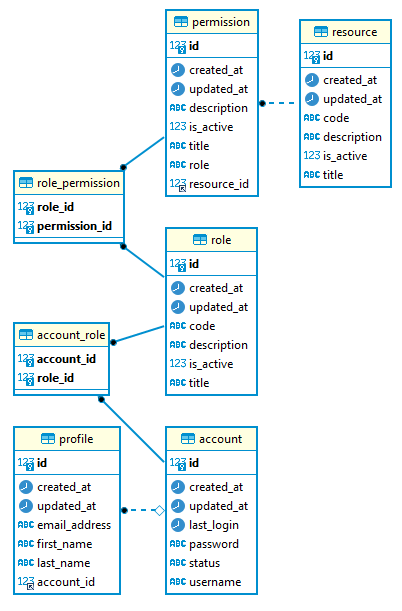
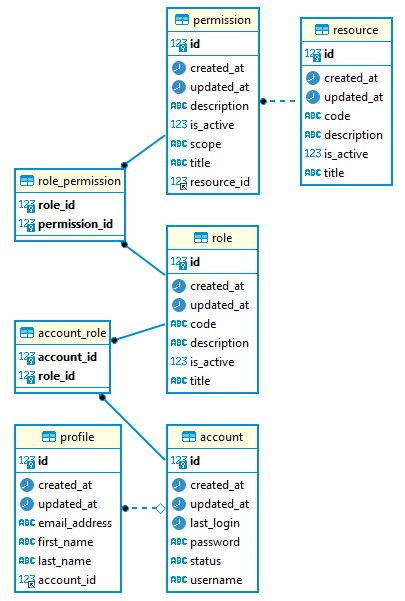
apply role-permission relation

diff --git a/account-service/src/main/java/com/example/service/impl/RoleServiceImpl.java b/account-service/src/main/java/com/example/service/impl/RoleServiceImpl.java
@@ -1,14 +1,16 @@
 package com.example.service.impl;
 
 import com.example.dto.RoleDTO;
-import com.example.entity.RoleEntity;
+import com.example.entity.PermissionEntity;
 import com.example.entity.RoleEntity;
 import com.example.exception.BaseResponseException;
+import com.example.repository.PermissionRepository;
 import com.example.repository.RoleRepository;
 import com.example.service.RoleService;
 import lombok.AccessLevel;
 import lombok.RequiredArgsConstructor;
 import lombok.experimental.FieldDefaults;
+import org.apache.commons.collections4.CollectionUtils;
 import org.modelmapper.ModelMapper;
 import org.springframework.http.HttpStatus;
 import org.springframework.stereotype.Service;
@@ -20,10 +22,10 @@ import javax.persistence.criteria.CriteriaQuery;
 import javax.persistence.criteria.Predicate;
 import javax.persistence.criteria.Root;
 import javax.transaction.Transactional;
-import java.time.LocalDateTime;
 import java.util.ArrayList;
 import java.util.List;
 import java.util.Objects;
+import java.util.Set;
 
 @Service
 @FieldDefaults(level = AccessLevel.PRIVATE, makeFinal = true)
@@ -31,8 +33,10 @@ import java.util.Objects;
 public class RoleServiceImpl implements RoleService {
     @PersistenceContext
     EntityManager entityManager;
-    RoleRepository roleRepository;
     ModelMapper modelMapper;
+
+    RoleRepository roleRepository;
+    PermissionRepository permissionRepository;
 
     @Override
     public List<RoleDTO> getAll() {
@@ -88,7 +92,6 @@ public class RoleServiceImpl implements RoleService {
             }
             roleEntity = modelMapper.map(role, RoleEntity.class);
             roleEntity.setActive(Boolean.TRUE);
-            roleEntity.setCreatedAt(LocalDateTime.now());
         } else {
             roleEntity = roleRepository.getActive(id, code);
             if (Objects.isNull(roleEntity)) {
@@ -96,7 +99,6 @@ public class RoleServiceImpl implements RoleService {
             }
             roleEntity.setTitle(role.getTitle());
             roleEntity.setDescription(role.getDescription());
-            roleEntity.setUpdatedAt(LocalDateTime.now());
         }
         roleRepository.saveAndFlush(roleEntity);
 
@@ -110,5 +112,32 @@ public class RoleServiceImpl implements RoleService {
         if (id > 0) {
             roleRepository.deleteById(id);
         }
+    }
+
+    @Transactional
+    @Override
+    public void savePermission(long roleId, long permissionId) {
+        RoleEntity roleEntity = roleRepository.findById(roleId)
+                .orElseThrow(() -> new BaseResponseException(HttpStatus.NOT_FOUND));
+        PermissionEntity permissionEntity = permissionRepository.findById(permissionId)
+                .orElseThrow(() -> new BaseResponseException(HttpStatus.NOT_FOUND));
+        boolean result = roleEntity.addPermission(permissionEntity);
+        if (!result) throw new BaseResponseException(HttpStatus.BAD_REQUEST);
+
+        roleRepository.save(roleEntity);
+    }
+
+    @Transactional
+    @Override
+    public void deletePermission(long roleId, long permissionId) {
+        RoleEntity roleEntity = roleRepository.findById(roleId)
+                .orElseThrow(() -> new BaseResponseException(HttpStatus.NOT_FOUND));
+        Set<PermissionEntity> permissions = roleEntity.getPermissions();
+        if (CollectionUtils.isEmpty(permissions)) return;
+        PermissionEntity permissionEntity = permissionRepository.findById(permissionId)
+                .orElseThrow(() -> new BaseResponseException(HttpStatus.NOT_FOUND));
+        permissions.remove(permissionEntity);
+        roleRepository.save(roleEntity);
+        // doesn't need this: permissionEntity.getRoles().remove(roleEntity);
     }
 }

diff --git a/account-service/src/main/java/com/example/service/impl/ResourceServiceImpl.java b/account-service/src/main/java/com/example/service/impl/ResourceServiceImpl.java
@@ -26,7 +26,6 @@ import javax.persistence.criteria.CriteriaQuery;
 import javax.persistence.criteria.Predicate;
 import javax.persistence.criteria.Root;
 import javax.transaction.Transactional;
-import java.time.LocalDateTime;
 import java.util.ArrayList;
 import java.util.List;
 import java.util.Objects;
@@ -123,7 +122,6 @@ public class ResourceServiceImpl implements ResourceService {
             }
             resourceEntity = modelMapper.map(resource, ResourceEntity.class);
             resourceEntity.setActive(Boolean.TRUE);
-            // resourceEntity.setCreatedAt(LocalDateTime.now());
         } else {
             resourceEntity = resourceRepository.getActive(id, code);
             if (Objects.isNull(resourceEntity)) {
@@ -131,7 +129,6 @@ public class ResourceServiceImpl implements ResourceService {
             }
             resourceEntity.setTitle(resource.getTitle());
             resourceEntity.setDescription(resource.getDescription());
-            resourceEntity.setUpdatedAt(LocalDateTime.now());
         }
         resourceRepository.saveAndFlush(resourceEntity);
 
@@ -153,26 +150,19 @@ public class ResourceServiceImpl implements ResourceService {
         ResourceEntity resource = resourceRepository.findById(resourceId)
                 .orElseThrow(() -> new BaseResponseException(HttpStatus.NOT_FOUND));
         PermissionEntity permissionEntity = modelMapper.map(permission, PermissionEntity.class);
-        permissionEntity.setCreatedAt(LocalDateTime.now());
         boolean result = resource.addPermission(permissionEntity);
-        if (!result && CollectionUtils.isNotEmpty(resource.getPermissions())) {
-            // permission already saves
-            throw new BaseResponseException(HttpStatus.CONFLICT);
-        }
+        if (!result) throw new BaseResponseException(HttpStatus.CONFLICT); // permission already saves
         resourceRepository.save(resource);
     }
 
     @Transactional
     @Override
     public void deletePermission(long resourceId, long permissionId) {
-        PermissionEntity permission = permissionRepository.findById(permissionId).orElseThrow(() -> new BaseResponseException(HttpStatus.NOT_FOUND));
+        PermissionEntity permission = permissionRepository.findById(permissionId)
+                .orElseThrow(() -> new BaseResponseException(HttpStatus.NOT_FOUND));
         ResourceEntity resource = permission.getResource();
-        if (Objects.isNull(resource)) {
-            throw new BaseResponseException(HttpStatus.NOT_FOUND);
-        }
-        if (resourceId != resource.getId()) {
-            throw new BaseResponseException(HttpStatus.BAD_REQUEST);
-        }
+        if (Objects.isNull(resource)) throw new BaseResponseException(HttpStatus.NOT_FOUND);
+        if (resourceId != resource.getId()) throw new BaseResponseException(HttpStatus.BAD_REQUEST);
         permissionRepository.delete(permission);
     }
 }

diff --git a/account-service/src/main/java/com/example/entity/RoleEntity.java b/account-service/src/main/java/com/example/entity/RoleEntity.java
@@ -7,9 +7,11 @@ import lombok.Setter;
 import lombok.experimental.FieldDefaults;
 
 import javax.persistence.*;
+import java.util.HashSet;
+import java.util.Objects;
 import java.util.Set;
 
-@EqualsAndHashCode(callSuper = true)
+@EqualsAndHashCode(callSuper = true, onlyExplicitlyIncluded = true)
 @Getter
 @Setter
 @FieldDefaults(level = AccessLevel.PRIVATE)
@@ -18,21 +20,24 @@ import java.util.Set;
 public class RoleEntity extends BaseEntity {
     private static final long serialVersionUID = 1L;
 
-    String title; // eg: Admin
+    String title; // eg: Administrator
     @Column(updatable = false)
+
+    @EqualsAndHashCode.Include
     String code; // eg: ROLE_ADMIN
+
     String description; // eg: Has full access to entire resources
 
     @Column(name = "is_active")
     boolean isActive;
 
-    @EqualsAndHashCode.Exclude
     @ManyToMany(mappedBy = "roles")
     @OrderBy("id  ASC")
     Set<AccountEntity> accounts;
 
-    @EqualsAndHashCode.Exclude
-    @ManyToMany
+    @ManyToMany(fetch = FetchType.LAZY, targetEntity = PermissionEntity.class,
+            cascade = { CascadeType.DETACH, CascadeType.MERGE,
+                    CascadeType.REFRESH, CascadeType.PERSIST })
     @JoinTable(
         name = "role_permission",
         joinColumns = @JoinColumn(name = "role_id", nullable = false), foreignKey = @ForeignKey(name = "fk_role_permission"),
@@ -40,4 +45,10 @@ public class RoleEntity extends BaseEntity {
     )
     @OrderBy("id, title ASC")
     Set<PermissionEntity> permissions;
+
+    public boolean addPermission(PermissionEntity permission) {
+        if (Objects.isNull(this.permissions)) this.permissions = new HashSet<>();
+        return this.permissions.add(permission);
+                // doesn't need this: && permission.addRole(this);
+    }
 }

diff --git a/account-service/src/main/java/com/example/entity/PermissionEntity.java b/account-service/src/main/java/com/example/entity/PermissionEntity.java
@@ -9,6 +9,8 @@ import lombok.Setter;
 import lombok.experimental.FieldDefaults;
 
 import javax.persistence.*;
+import java.util.HashSet;
+import java.util.Objects;
 import java.util.Set;
 
 @Getter
@@ -30,11 +32,23 @@ public class PermissionEntity extends BaseEntity {
     @Convert(converter = ScopeConverter.class) // name property rather than enum name
     ScopePermission scope;
 
-    @ManyToMany(fetch = FetchType.LAZY, mappedBy = "permissions")
+    @ManyToMany(fetch = FetchType.LAZY, targetEntity = RoleEntity.class,
+        cascade = { CascadeType.DETACH, CascadeType.MERGE,
+                CascadeType.REFRESH, CascadeType.PERSIST })
+    @JoinTable(
+            name = "role_permission",
+            inverseJoinColumns = @JoinColumn(name = "role_id", nullable = false), foreignKey = @ForeignKey(name = "fk_role_permission"),
+            joinColumns = @JoinColumn(name = "permission_id", nullable = false, foreignKey = @ForeignKey(name = "fk_permission_role"))
+    )
     @OrderBy("id, title ASC")
     Set<RoleEntity> roles;
 
     @ManyToOne
     @JoinColumn(name = "resource_id", foreignKey = @ForeignKey(name = "fk_permission_resource"), nullable = false)
     ResourceEntity resource;
+
+    public boolean addRole(RoleEntity role) {
+        if (Objects.isNull(this.roles)) this.roles = new HashSet<>();
+        return this.roles.add(role);
+    }
 }

diff --git a/account-service/src/main/java/com/example/service/impl/AccountServiceImpl.java b/account-service/src/main/java/com/example/service/impl/AccountServiceImpl.java
@@ -21,7 +21,6 @@ import javax.persistence.criteria.CriteriaQuery;
 import javax.persistence.criteria.Predicate;
 import javax.persistence.criteria.Root;
 import javax.transaction.Transactional;
-import java.time.LocalDateTime;
 import java.util.ArrayList;
 import java.util.List;
 import java.util.Objects;
@@ -89,7 +88,6 @@ public class AccountServiceImpl implements AccountService {
             }
             accountEntity = modelMapper.map(account, AccountEntity.class);
             accountEntity.setStatus(AccountStatus.ACTIVE);
-            accountEntity.setCreatedAt(LocalDateTime.now());
         } else {
             accountEntity = accountRepository.getActive(id, username);
             if (Objects.isNull(accountEntity)) {
@@ -98,7 +96,6 @@ public class AccountServiceImpl implements AccountService {
 
             // TODO: BcryptPassword -> accountEntity.setPassword(account.getPassword());
             accountEntity.setStatus(account.getStatus());
-            accountEntity.setUpdatedAt(LocalDateTime.now());
         }
         accountRepository.saveAndFlush(accountEntity);
 

diff --git a/account-service/src/main/java/com/example/controller/RoleController.java b/account-service/src/main/java/com/example/controller/RoleController.java
@@ -12,7 +12,7 @@ import java.util.List;
 @FieldDefaults(level = AccessLevel.PRIVATE, makeFinal = true)
 @RequiredArgsConstructor
 @RestController
-@RequestMapping(value = "/roles")
+@RequestMapping(value = "/api/v1/roles")
 public class RoleController {
 
     RoleService roleService;
@@ -42,4 +42,15 @@ public class RoleController {
         roleService.delete(id);
     }
 
+    @PostMapping(value = "/{id}/permissions/{permission-id}")
+    public void savePermission(@PathVariable(value = "id") long roleId,
+                               @PathVariable(value = "permission-id") long permissionId) {
+        roleService.savePermission(roleId, permissionId);
+    }
+
+    @DeleteMapping(value = "/{id}/permissions/{permission-id}")
+    public void deletePermission(@PathVariable(value = "id") long roleId,
+                                 @PathVariable(value = "permission-id") long permissionId) {
+        roleService.deletePermission(roleId, permissionId);
+    }
 }

diff --git a/todo-service/src/main/java/com/example/service/impl/TodoServiceImpl.java b/todo-service/src/main/java/com/example/service/impl/TodoServiceImpl.java
@@ -16,7 +16,6 @@ import javax.persistence.criteria.CriteriaQuery;
 import javax.persistence.criteria.Predicate;
 import javax.persistence.criteria.Root;
 import javax.transaction.Transactional;
-import java.time.LocalDateTime;
 import java.util.ArrayList;
 import java.util.List;
 
@@ -70,7 +69,6 @@ public class TodoServiceImpl implements TodoService {
         TodoEntity todoEntity;
         if (id == 0) {
             todoEntity = new TodoEntity();
-            todoEntity.setCreatedAt(LocalDateTime.now());
         } else {
             todoEntity = todoRepository.getReferenceById(id);
             todoEntity.setStatus(todo.getStatus());

diff --git a/account-service/src/main/java/com/example/dto/RoleDTO.java b/account-service/src/main/java/com/example/dto/RoleDTO.java
@@ -1,5 +1,11 @@
 package com.example.dto;
 
+import java.time.LocalDateTime;
+
 public class RoleDTO extends ResourceDTO {
     private static final long serialVersionUID = 1L;
+
+    public RoleDTO(Long id, LocalDateTime createdAt, LocalDateTime updatedAt, String title, String code, String description, boolean isActive) {
+        super(id, createdAt, updatedAt, title, code, description, isActive);
+    }
 }

diff --git a/account-service/src/main/java/com/example/entity/AccountEntity.java b/account-service/src/main/java/com/example/entity/AccountEntity.java
@@ -41,6 +41,6 @@ public class AccountEntity extends BaseEntity {
     Set<RoleEntity> roles;
 
     @EqualsAndHashCode.Exclude
-    @OneToOne(fetch = FetchType.LAZY, mappedBy = "account", cascade = CascadeType.ALL)
+    @OneToOne(fetch = FetchType.LAZY, mappedBy = "account", cascade = { CascadeType.PERSIST, CascadeType.REMOVE })
     ProfileEntity profile;
 }

diff --git a/account-service/src/main/java/com/example/controller/ResourceController.java b/account-service/src/main/java/com/example/controller/ResourceController.java
@@ -13,7 +13,7 @@ import java.util.List;
 @FieldDefaults(level = AccessLevel.PRIVATE, makeFinal = true)
 @RequiredArgsConstructor
 @RestController
-@RequestMapping(value = "/resources") // Base Path
+@RequestMapping(value = "/api/v1/resources") // Base Path
 public class ResourceController {
 
     ResourceService resourceService;

diff --git a/account-service/src/main/java/com/example/controller/AccountController.java b/account-service/src/main/java/com/example/controller/AccountController.java
@@ -12,7 +12,7 @@ import java.util.List;
 @FieldDefaults(level = AccessLevel.PRIVATE, makeFinal = true)
 @RequiredArgsConstructor
 @RestController
-@RequestMapping(value = "/accounts")
+@RequestMapping(value = "/api/v1/accounts")
 public class AccountController {
 
     AccountService accountService;

diff --git a/todo-service/src/main/java/com/example/controller/TodoController.java b/todo-service/src/main/java/com/example/controller/TodoController.java
@@ -12,7 +12,7 @@ import java.util.List;
 @FieldDefaults(level = AccessLevel.PRIVATE, makeFinal = true)
 @RequiredArgsConstructor
 @RestController
-@RequestMapping(value = "/todos")
+@RequestMapping(value = "/api/v1/todos")
 public class TodoController {
 
     TodoService todoService;
